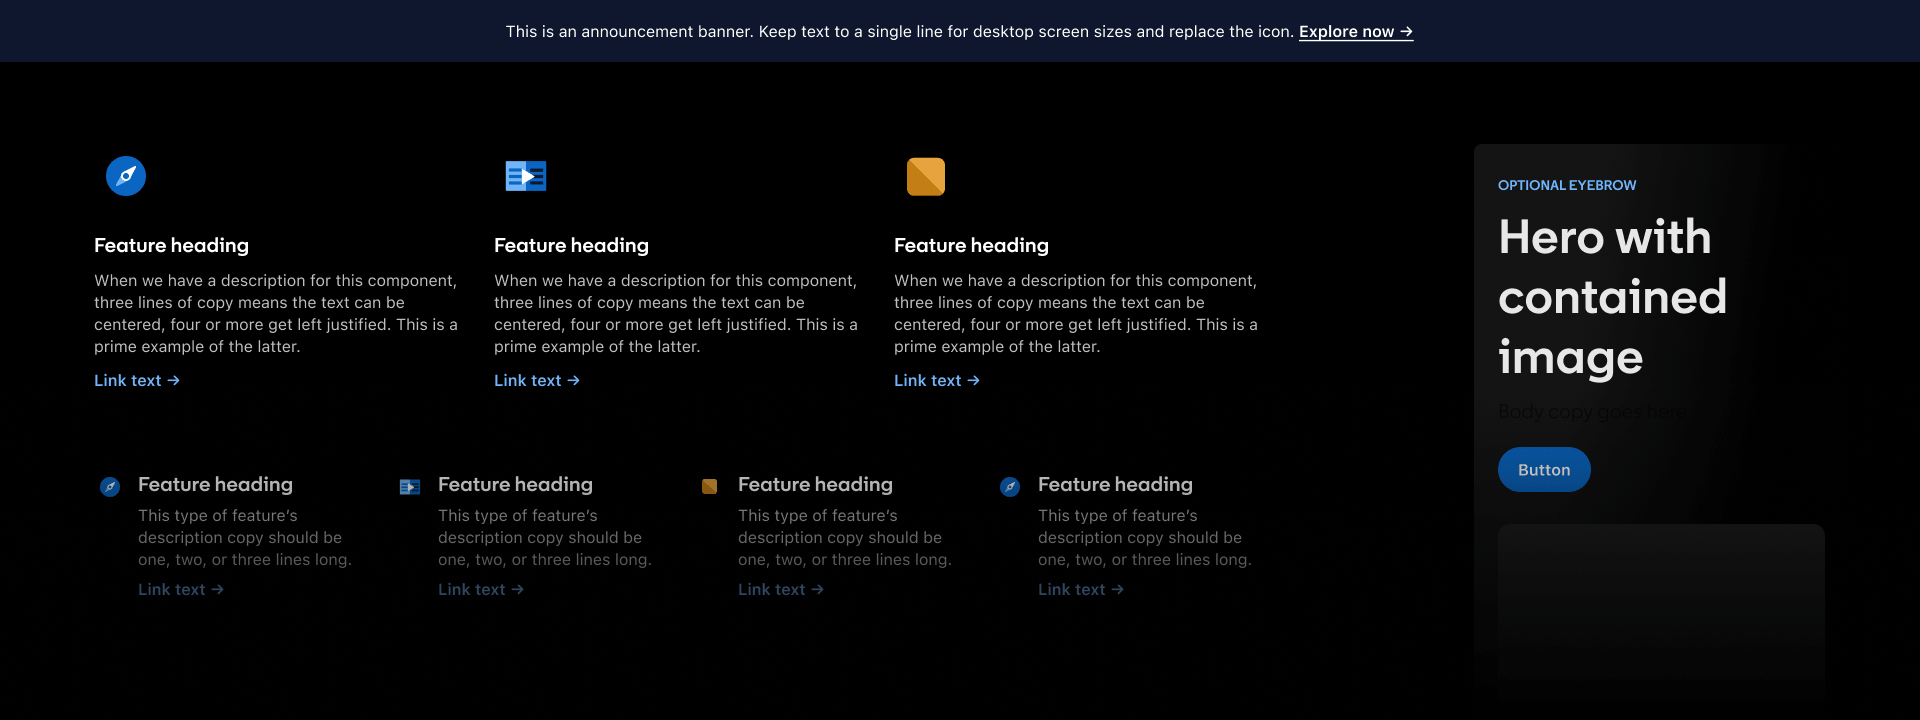
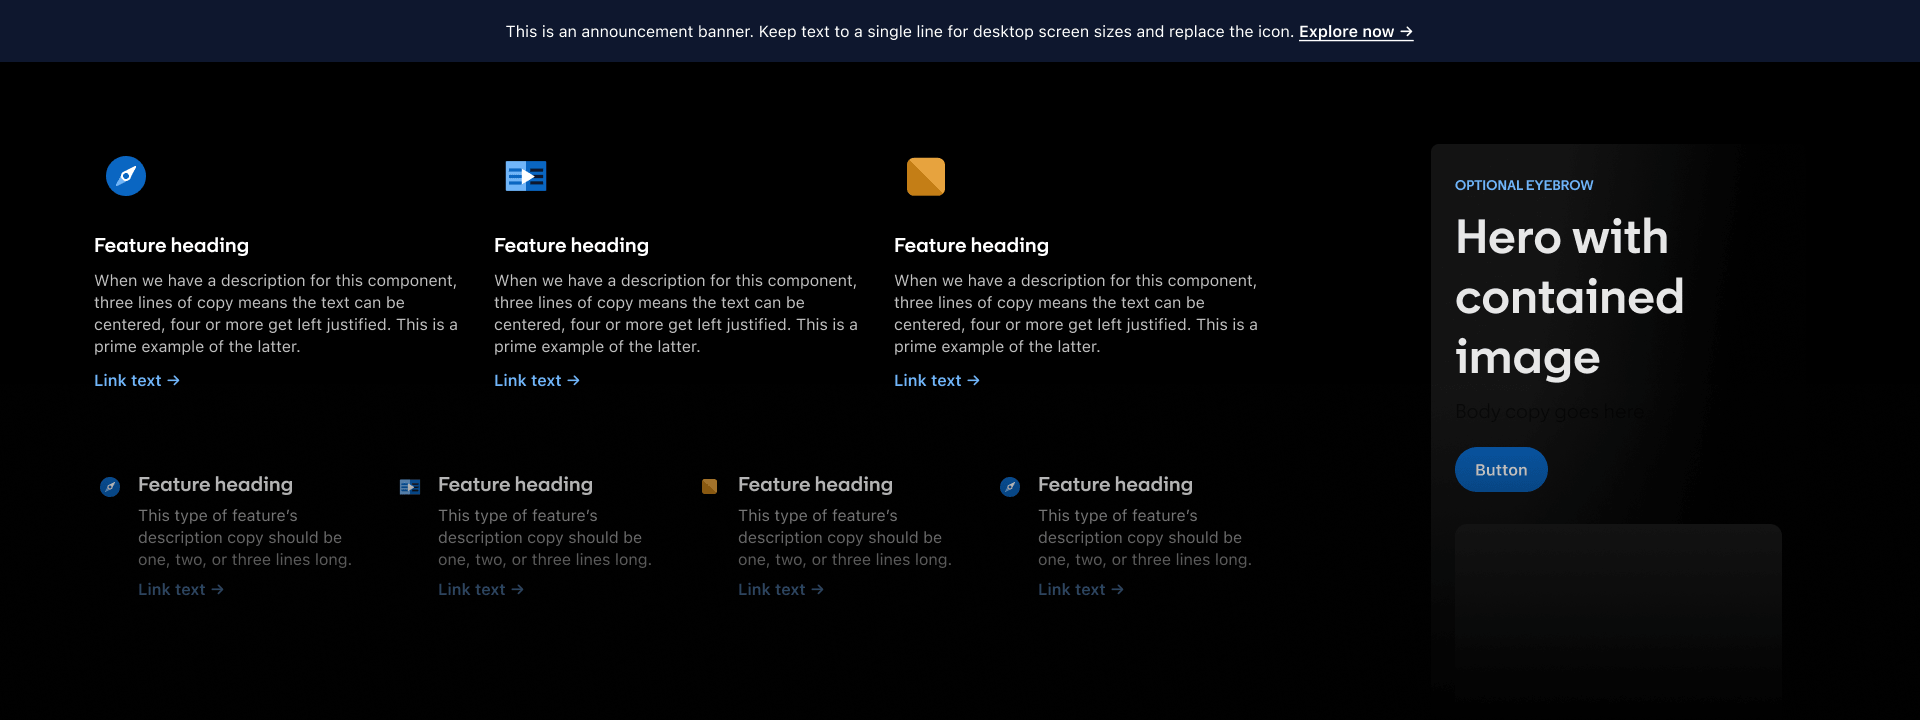
Fix background bleed-through, redesign hover panel, add 3 LinkedIn tabs
Root cause of the "background bleeding through" complaint: a
decorative purple accent-glow (.screen-frame-media::after) sat
unconditionally on top of every screen, real screenshots included —
so it was tinting the client's own exact colors with our site's own
glow instead of just decorating the empty placeholder state it was
originally built for. Moved that gradient/glow onto a new
.screen-frame-empty wrapper that only renders when a screen has no
media yet, so a real image now shows its exact colors untouched.

Hover panel redesign: now covers the full image (was a bottom sliver
capped at 62% height, easy to miss entirely) with a centered,
comfortably-measured text column — left-aligned type, since ragged
left reads better than centered for paragraphs. Same verified
translucent blur treatment underneath.

Also swaps in the corrected components screenshot, and adds three
more LinkedIn tabs (titles only, media TBD): AI Workflow & Design
System, AEM: Custom Tokens & Components, AEM: Custom Code & SEO.

Claude-Session: https://claude.ai/code/session_01EJPPnY97PrPzGvYX7QY7XN

diff --git a/src/components/ScreenBrowser.css b/src/components/ScreenBrowser.css
@@ -121,16 +121,30 @@
    ever cropped or letterboxed — see .screen-frame-asset. min-height only
    keeps the placeholder "TBD" caption looking like a proper browser
    window before real media exists; it has no effect once a real asset
-   (any height) is in flow. */
+   (any height) is in flow. Flat, neutral fallback background only — a
+   decorative gradient/glow here used to sit on top of a real screenshot's
+   own exact colors (see .screen-frame-empty below for where that
+   flourish actually belongs: the placeholder state only). */
 .screen-frame-media {
   min-height: clamp(220px, 26vw, 360px);
   position: relative;
+  background: #0a0a0c;
+}
+
+/* The decorative gradient + glow live here now, scoped to the "no real
+   media yet" placeholder state only — they were previously on
+   .screen-frame-media itself, which meant they painted on TOP of every
+   real screenshot too, tinting the client's own exact colors with our
+   site's purple accent glow. */
+.screen-frame-empty {
+  position: absolute;
+  inset: 0;
   background:
     radial-gradient(circle at 25% 20%, rgba(255, 255, 255, 0.06), transparent 55%),
     linear-gradient(160deg, #17131f 0%, #0c0a12 60%, #0a0a0c 100%);
 }
 
-.screen-frame-media::after {
+.screen-frame-empty::after {
   content: "";
   position: absolute;
   inset: 0;
@@ -169,44 +183,50 @@
 /* Per-image context, revealed on hover. A shared translucent .glass
    surface is NOT legible here — those tokens (58% opacity, 22px blur) are
    tuned for sitting over the dim particle background, not a bright/busy
-   screenshot. My first attempt at a fix overcorrected the other way: a
+   screenshot. An earlier attempt at a fix overcorrected the other way: a
    near-opaque gradient (94-97%) that was legible but genuinely opaque —
    not translucent, not actually blurring anything, just hiding it. Proven
    (via a real busy/high-contrast test image, cropped and inspected pixel
    by pixel) that blur(40px) + a MODERATE ~55% tint is enough to fully
    obscure fine detail and text while still visibly showing blurred color
-   through the panel — genuine frosted glass, not a flat scrim. Anchored
-   to the bottom of the media box and capped with its own max-height +
-   scroll rather than growing the frame. */
+   through the panel — genuine frosted glass, not a flat scrim.
+
+   Covers the full image now (not just a bottom sliver) so it reads as a
+   deliberate reveal rather than something easy to miss — the text block
+   itself stays a centered, comfortably-measured column so a short
+   description doesn't sprawl edge to edge, but its type is left-aligned
+   (paragraphs read better ragged-left than centered). */
 .screen-context-panel {
   position: absolute;
-  inset: auto 0 0 0;
+  inset: 0;
   z-index: 2;
-  max-height: 62%;
+  display: flex;
+  align-items: center;
+  justify-content: center;
   overflow-y: auto;
-  padding: 1rem 1.1rem 0.9rem;
-  background: linear-gradient(to top, rgba(10, 9, 14, 0.62) 0%, rgba(10, 9, 14, 0.56) 55%, rgba(10, 9, 14, 0.32) 100%);
+  padding: clamp(1.5rem, 4vw, 3rem);
+  background: rgba(10, 9, 14, 0.6);
   backdrop-filter: blur(40px) saturate(160%);
   -webkit-backdrop-filter: blur(40px) saturate(160%);
   opacity: 0;
-  transform: translateY(6px);
   pointer-events: none;
-  transition:
-    opacity var(--dur-fast) var(--ease-premium),
-    transform var(--dur-fast) var(--ease-premium);
+  transition: opacity var(--dur-med) var(--ease-premium);
 }
 
 .screen-frame-media:hover .screen-context-panel {
   opacity: 1;
-  transform: translateY(0);
   pointer-events: auto;
 }
 
 .screen-context-text {
   position: relative;
   z-index: 1;
-  font-size: 0.85rem;
-  line-height: 1.55;
+  max-width: 34rem;
+  width: 100%;
+  margin: 0 auto;
+  text-align: left;
+  font-size: 1rem;
+  line-height: 1.6;
   color: var(--ink);
 }
 

diff --git a/src/data/projects.ts b/src/data/projects.ts
@@ -93,6 +93,24 @@ export const clientProjects: ClientProject[] = [
         description:
           "Built all new, custom components in Figma including: heroes, cards, features, banners, etc.",
       },
+      {
+        id: "ai-workflow",
+        label: "AI Workflow & Design System",
+        Icon: IconBolt,
+        description: "Description TBD — a short paragraph of context for this image will go here.",
+      },
+      {
+        id: "aem-tokens-components",
+        label: "AEM: Custom Tokens & Components",
+        Icon: IconLayers,
+        description: "Description TBD — a short paragraph of context for this image will go here.",
+      },
+      {
+        id: "aem-code-seo",
+        label: "AEM: Custom Code & SEO",
+        Icon: IconWindow,
+        description: "Description TBD — a short paragraph of context for this image will go here.",
+      },
     ],
   },
   {

diff --git a/src/components/ScreenFrameMedia.tsx b/src/components/ScreenFrameMedia.tsx
@@ -12,7 +12,11 @@ type ScreenFrameMediaProps = {
 export default function ScreenFrameMedia({ screen }: ScreenFrameMediaProps) {
   const media = screen.media;
   if (!media) {
-    return <span className="screen-frame-caption">{screen.label}</span>;
+    return (
+      <span className="screen-frame-empty">
+        <span className="screen-frame-caption">{screen.label}</span>
+      </span>
+    );
   }
 
   // Images render at their natural size by default (see .screen-frame-asset)
